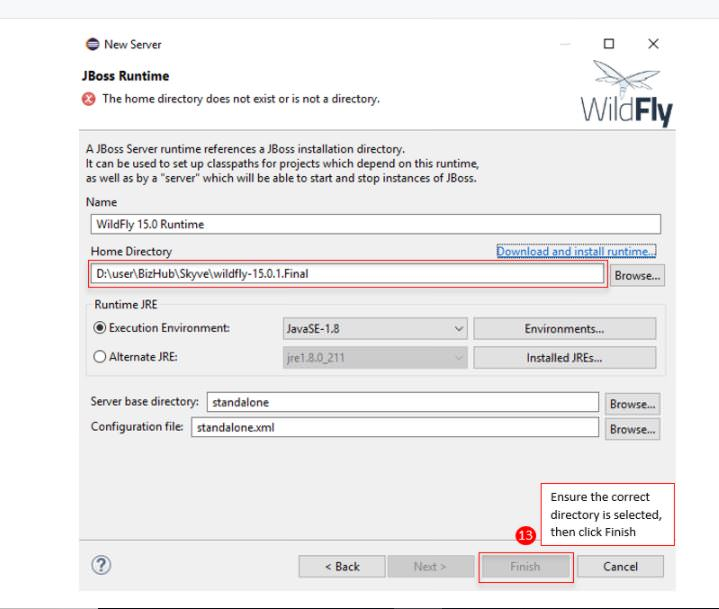
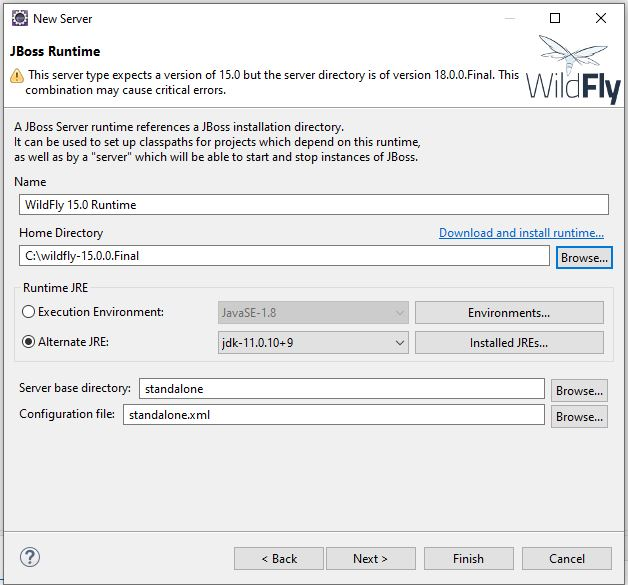
Updated for Java 11

Changed region(s): [[0.0, 0.0, 1.0, 1.0], [0.121, 0.8923, 0.1513, 0.9538]]

diff --git a/tutorial/chapter3.md b/tutorial/chapter3.md
@@ -92,8 +92,8 @@ Before you can import the project into Eclipse, you need to download and install
   - Then, Install Eclipse in your system
 
 - ##### Download and Install JDK
-  - Click here to [download and install JDK 8](https://adoptopenjdk.net/installation.html)
-  - Install an OpenJDK 8 version from [AdoptOpenJDK](https://adoptopenjdk.net/installation.html?variant=openjdk8&jvmVariant=hotspot#x86-32_win-jdk) (or an alternative open JDK of your choice)
+  - Click here to [download and install JDK 11](https://adoptopenjdk.net/installation.html)
+  - Install an OpenJDK 11 version from [AdoptOpenJDK](https://adoptopenjdk.net/installation.html) 
 
 **[⬆ back to top](#contents)**
 
